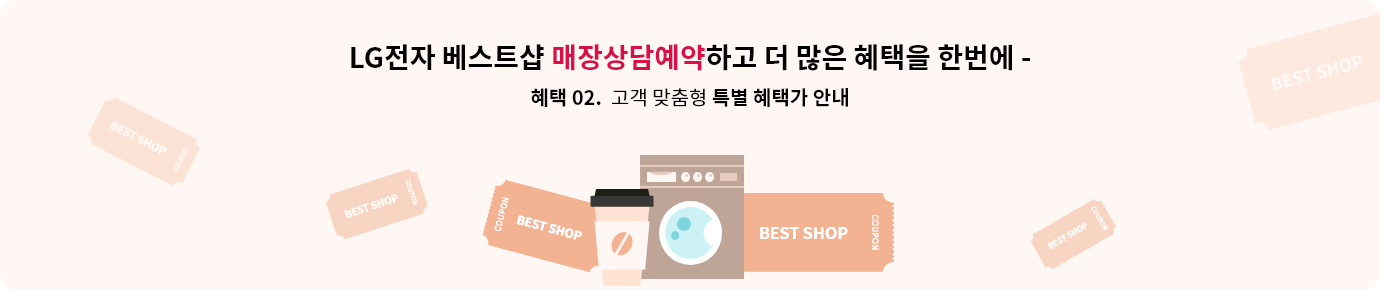
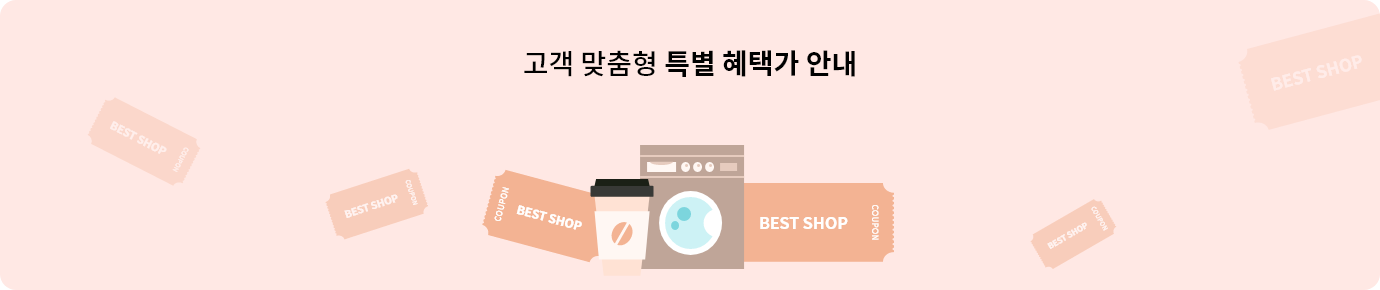
[안하은] 매장상담예약 수정건

Changed region(s): [[0.3428, 0.4966, 0.6543, 0.9621], [0.2493, 0.1552, 0.7478, 0.2793], [0.3739, 0.3103, 0.6232, 0.3724]]

diff --git a/bestshop/css/haeun.css b/bestshop/css/haeun.css
@@ -741,7 +741,7 @@ ul.prd-list > li .box .price-wrap dl dd {font-size:20px; font-weight:bold; line-
     /* 매장상담예약 상단 공통 영역 */
     /* 탭 있는 경우 */
     .res-main [class*="tab"] + .top-wrap {width:calc(100% + 32px); margin-left:-16px}
-    .res-main [class*="tab"] + .top-wrap .guide-area .guide-process {padding:11px 0 0}
+    .res-main [class*="tab"] + .top-wrap .guide-area .guide-process {padding:21px 0 0}
     .res-main [class*="tab"] + .top-wrap .guide-area [class*="guide-banner"] {padding:0 16px 38px}
     .res-main [class*="tab"] + .top-wrap .add-area {margin:16px auto 0}
 
@@ -761,18 +761,17 @@ ul.prd-list > li .box .price-wrap dl dd {font-size:20px; font-weight:bold; line-
     .res-main .guide-area [class*="guide-banner"] .box .icon-wrap {position:absolute; width:60px; height:60px; bottom:5px; left:calc(50% - 30px)}
     .res-main .guide-area [class*="guide-banner"] .box .tit-wrap {margin-bottom:0}
     .res-main .guide-area [class*="guide-banner"] .box .tit-wrap .tit {font-size:10px; line-height:15px}
-    .res-main .guide-area [class*="guide-banner"] .box .tit-wrap strong {font-size:12px; line-height:17px}
+    .res-main .guide-area [class*="guide-banner"] .box .tit-wrap strong {font-size:13px; line-height:19px}
     .res-main .guide-area [class*="guide-banner"] .box .txt {margin-top:10px; font-size:11px; line-height:16px; white-space:initial; word-break:keep-all}
     .res-main .guide-area [class*="guide-banner"] .swiper-scrollbar {width:calc(100% - 32px); left:16px; bottom:26px; height:2px}
     .res-main .top-wrap .add-area {margin:20px auto}
     .res-main .add-area [class*="res-banner"] {padding:0 16px}
     .res-main .add-area [class*="res-banner"] .swiper-slide > .box {height:180px; border-radius:8px}
     .res-main .add-area [class*="res-banner"] .swiper-slide > .box > img {width:auto; height:100%; margin:0 auto}
-    .res-main .add-area [class*="res-banner"] .banner-btns {top:calc(50% - 16.5px)}
-    .res-main .add-area .banner-indi-wrap {margin:9px 0}
-    .res-main .add-area .banner-indi-wrap .btn-play {width:16.5px; height:16.5px}
+    .res-main .add-area .banner-indi-wrap {bottom:16px; margin:0 16px; padding:0 6px}
+    .res-main .add-area .banner-indi-wrap .btn-play {width:29px; height:29px; right:16px; bottom:12px}
     .res-main .add-area .banner-indi-wrap .swiper-pagination {margin:0 5px}
-    .res-main .add-area .banner-indi-wrap .swiper-pagination .swiper-pagination-bullet {width:6.5px; height:6.5px; margin:0 5px}
+    .res-main .add-area .banner-indi-wrap .swiper-pagination .swiper-pagination-bullet {height:4px; margin:0 5px}
 
     /* 매장상담예약 컨텐츠 영역 */
     .res-main .cont-wrap .cont-area {padding-top:4px}
